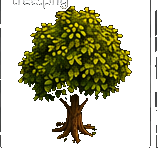
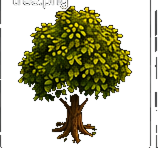
Add files via upload

diff --git a/index.html b/index.html
@@ -1,11 +1,11 @@
 <!doctype html><html lang="de"><head><meta charset="utf-8">
 <meta name="viewport" content="width=device-width,initial-scale=1,maximum-scale=1,user-scalable=no,viewport-fit=cover">
-<title>Leaf Cleanup V4.8</title><link rel="stylesheet" href="style.css?v=v480"></head><body>
-<div id="menu"><div class="card"><h1>🍂 LEAF CLEANUP</h1><div class="version">V4.8 · ISOMETRIC</div>
+<title>Leaf Cleanup V4.9</title><link rel="stylesheet" href="style.css?v=v490"></head><body>
+<div id="menu"><div class="card"><h1>🍂 LEAF CLEANUP</h1><div class="version">V4.9 · ISOMETRIC</div>
 <p>Garten reinigen · Geräte freischalten · bis Level 200</p><button id="start">SPIEL STARTEN</button></div></div>
 <div id="game" class="hidden">
 <canvas id="world" width="1536" height="1024"></canvas>
-<div class="badge">V4.8</div>
+<div class="badge">V4.9</div>
 <div id="hud"><b>LEVEL <span id="level">1</span> / 200</b><span>🍂 <b id="leafCount">0</b> / 100</span>
 <span>⭐ <b id="score">0</b></span><span>🗑 <b id="binFill">0</b> / 100</span><button id="menuBtn">MENÜ</button></div>
 <aside id="tools"><h3>GERÄTE</h3>
@@ -16,4 +16,4 @@
 <p>Mülltonnen leeren</p><strong>♻ <span id="empties">0</span> / 3</strong></aside>
 <div id="joy"><div id="stick"></div></div><div class="hint">Joystick bewegen · Blätter berühren zum Sammeln</div>
 <div class="bottom"><button>🗺<small>KARTE</small></button><button>⌖<small>ZIEL</small></button><button id="pause">Ⅱ<small>PAUSE</small></button></div>
-</div><script src="game.js?v=v480"></script></body></html>
+</div><script src="game.js?v=v490"></script></body></html>

diff --git a/game.js b/game.js
@@ -1,4 +1,4 @@
-const ASSET_VERSION="v480",c=document.getElementById("world"),ctx=c.getContext("2d"),I={},D=["N","NE","E","SE","S","SW","W","NW"];
+const ASSET_VERSION="v490",c=document.getElementById("world"),ctx=c.getContext("2d"),I={},D=["N","NE","E","SE","S","SW","W","NW"];
 function L(k,f){let i=new Image;i.src=f+"?v="+ASSET_VERSION;I[k]=i}L("bg","garden_background.png");["tree","bush_green","bush_flowers","flower_bed","wheelbarrow","birdbath_pool","bench","lantern","gate_left","gate_right","mailbox","bin","bin_full"].forEach(n=>L(n,n+".png"));D.forEach(d=>{L("p"+d,"player_"+d+".png");L("t"+d,"truck_"+d+".png")});for(let i=1;i<=4;i++)L("l"+i,"leaf_0"+i+".png");
 let running=false,paused=false,joy={x:0,y:0},p={x:720,y:590,d:"S"},leaves=[],scoreN=0,totalPoints=0,binN=0,emptiedN=0,truck={on:false,x:-250,y:840,d:"E",t:0};
 function spr(im,x,y,w,h){if(im?.complete&&im.naturalWidth)ctx.drawImage(im,x-w/2,y-h,w,h)}
